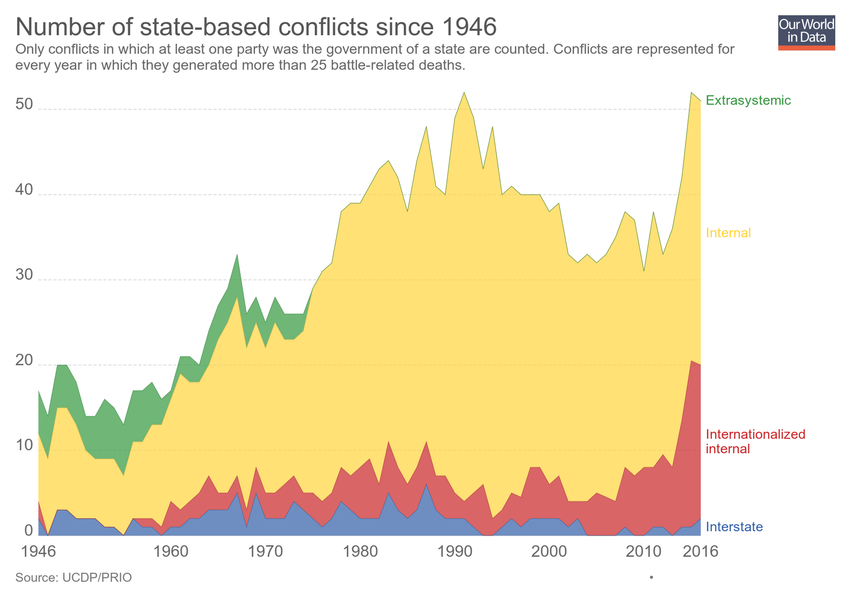
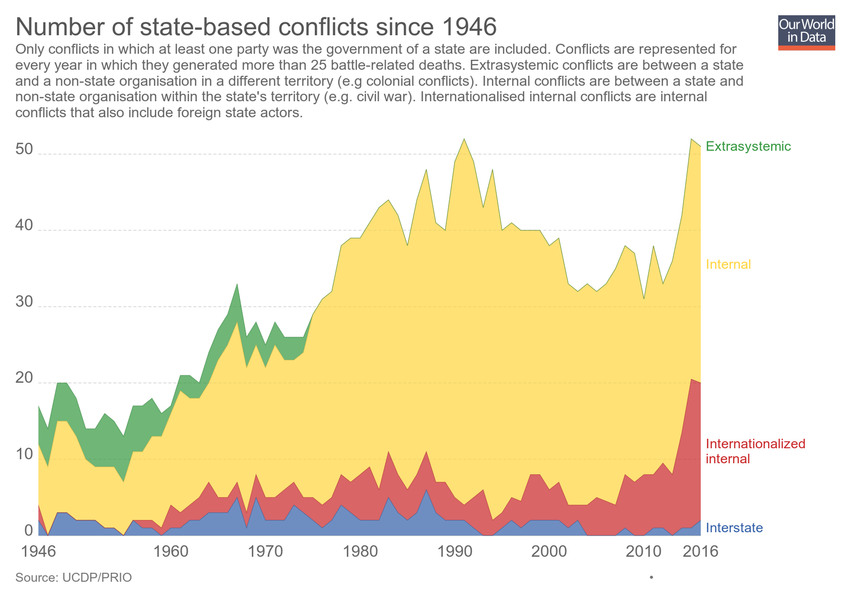
Updating chart number-of-state-based-conflicts-since-1946

diff --git a/grapher/number-of-state-based-conflicts-since-1946.html b/grapher/number-of-state-based-conflicts-since-1946.html
@@ -1,4 +1,4 @@
-<!doctype html><html><head><meta name="viewport" content="width=device-width, initial-scale=1" /><title>Number of state-based conflicts since 1946 - Our World in Data</title><meta name="description" content="Only conflicts in which at least one party was the government of a state are counted. Conflicts are represented for every year in which they generated more than 25 battle-related deaths." /><link rel="canonical" href="https://ourworldindata.org/grapher/number-of-state-based-conflicts-since-1946" /><meta property="fb:app_id" content="1149943818390250" /><meta property="og:url" content="https://ourworldindata.org/grapher/number-of-state-based-conflicts-since-1946" /><meta property="og:title" content="Number of state-based conflicts since 1946" /><meta property="og:description" content="Only conflicts in which at least one party was the government of a state are counted. Conflicts are represented for every year in which they generated more than 25 battle-related deaths." /><meta property="og:image" content="https://ourworldindata.org/grapher/exports/number-of-state-based-conflicts-since-1946.png?v=1" /><meta property="og:image:width" content="850" /><meta property="og:image:height" content="600" /><meta property="og:site_name" content="Our World in Data" /><meta name="twitter:card" content="summary_large_image" /><meta name="twitter:site" content="@OurWorldInData" /><meta name="twitter:creator" content="@OurWorldInData" /><meta name="twitter:title" content="Number of state-based conflicts since 1946" /><meta name="twitter:description" content="Only conflicts in which at least one party was the government of a state are counted. Conflicts are represented for every year in which they generated more than 25 battle-related deaths." /><meta name="twitter:image" content="https://ourworldindata.org/grapher/exports/number-of-state-based-conflicts-since-1946.png?v=1" /><style>
+<!doctype html><html><head><meta name="viewport" content="width=device-width, initial-scale=1" /><title>Number of state-based conflicts since 1946 - Our World in Data</title><meta name="description" content="Only conflicts in which at least one party was the government of a state are included. Conflicts are represented for every year in which they generated more than 25 battle-related deaths. Extrasystemic conflicts are between a state and a non-state organisation in a different territory (e.g colonial conflicts). Internal conflicts are between a state and non-state organisation within the state's territory (e.g. civil war). Internationalised internal conflicts are internal conflicts that also include foreign state actors." /><link rel="canonical" href="https://ourworldindata.org/grapher/number-of-state-based-conflicts-since-1946" /><meta property="fb:app_id" content="1149943818390250" /><meta property="og:url" content="https://ourworldindata.org/grapher/number-of-state-based-conflicts-since-1946" /><meta property="og:title" content="Number of state-based conflicts since 1946" /><meta property="og:description" content="Only conflicts in which at least one party was the government of a state are included. Conflicts are represented for every year in which they generated more than 25 battle-related deaths. Extrasystemic conflicts are between a state and a non-state organisation in a different territory (e.g colonial conflicts). Internal conflicts are between a state and non-state organisation within the state's territory (e.g. civil war). Internationalised internal conflicts are internal conflicts that also include foreign state actors." /><meta property="og:image" content="https://ourworldindata.org/grapher/exports/number-of-state-based-conflicts-since-1946.png?v=2" /><meta property="og:image:width" content="850" /><meta property="og:image:height" content="600" /><meta property="og:site_name" content="Our World in Data" /><meta name="twitter:card" content="summary_large_image" /><meta name="twitter:site" content="@OurWorldInData" /><meta name="twitter:creator" content="@OurWorldInData" /><meta name="twitter:title" content="Number of state-based conflicts since 1946" /><meta name="twitter:description" content="Only conflicts in which at least one party was the government of a state are included. Conflicts are represented for every year in which they generated more than 25 battle-related deaths. Extrasystemic conflicts are between a state and a non-state organisation in a different territory (e.g colonial conflicts). Internal conflicts are between a state and non-state organisation within the state's territory (e.g. civil war). Internationalised internal conflicts are internal conflicts that also include foreign state actors." /><meta name="twitter:image" content="https://ourworldindata.org/grapher/exports/number-of-state-based-conflicts-since-1946.png?v=2" /><style>
         html, body {
             height: 100%;
             margin: 0;
@@ -20,8 +20,8 @@
         }
     </style><noscript><style>
                     figure { display: none !important; }
-                </style></noscript><link rel="stylesheet" href="https://ourworldindata.org/grapher/assets/commons.bundle.62f8703dfc964fd3975c.css" /><link rel="preload" href="/grapher/data/variables/97370.json?v=1" as="fetch" crossorigin /></head><body class="singleChart"><figure data-grapher-src="/grapher/number-of-state-based-conflicts-since-1946"></figure><noscript id="fallback"><img src="/grapher/exports/number-of-state-based-conflicts-since-1946.svg" /><p>Interactive visualization requires JavaScript</p></noscript><script src="https://cdn.polyfill.io/v2/polyfill.min.js?features=es6,fetch"></script><script src="https://ourworldindata.org/grapher/assets/commons.bundle.62f8703dfc964fd3975c.js"></script><script src="https://ourworldindata.org/grapher/assets/charts.bundle.dcf65b68eddaba4c6a58.js"></script><script>
-        var jsonConfig = {"map":{"projection":"World","colorSchemeLabels":[],"colorSchemeValues":[],"colorSchemeMinValue":0,"customNumericColors":[],"customCategoryColors":{},"customCategoryLabels":{},"customHiddenCategories":{}},"tab":"chart","slug":"number-of-state-based-conflicts-since-1946","type":"StackedArea","title":"Number of state-based conflicts since 1946","xAxis":{"scaleType":"linear"},"yAxis":{"min":0,"scaleType":"linear"},"version":1,"subtitle":"Only conflicts in which at least one party was the government of a state are counted. Conflicts are represented for every year in which they generated more than 25 battle-related deaths.","hasMapTab":false,"stackMode":"absolute","dimensions":[{"display":{},"property":"y","variableId":97370}],"isAutoSlug":true,"hasChartTab":true,"isPublished":true,"selectedData":[{"index":0,"entityId":37484},{"index":0,"entityId":37486},{"index":0,"entityId":37487},{"index":0,"entityId":37485}],"addCountryMode":"disabled","id":2572};
+                </style></noscript><link rel="stylesheet" href="https://ourworldindata.org/grapher/assets/commons.bundle.62f8703dfc964fd3975c.css" /><link rel="preload" href="/grapher/data/variables/97370.json?v=2" as="fetch" crossorigin /></head><body class="singleChart"><figure data-grapher-src="/grapher/number-of-state-based-conflicts-since-1946"></figure><noscript id="fallback"><img src="/grapher/exports/number-of-state-based-conflicts-since-1946.svg" /><p>Interactive visualization requires JavaScript</p></noscript><script src="https://cdn.polyfill.io/v2/polyfill.min.js?features=es6,fetch"></script><script src="https://ourworldindata.org/grapher/assets/commons.bundle.62f8703dfc964fd3975c.js"></script><script src="https://ourworldindata.org/grapher/assets/charts.bundle.dcf65b68eddaba4c6a58.js"></script><script>
+        var jsonConfig = {"id":2572,"map":{"projection":"World","colorSchemeLabels":[],"colorSchemeValues":[],"colorSchemeMinValue":0,"customNumericColors":[],"customCategoryColors":{},"customCategoryLabels":{},"customHiddenCategories":{}},"tab":"chart","slug":"number-of-state-based-conflicts-since-1946","type":"StackedArea","title":"Number of state-based conflicts since 1946","xAxis":{"scaleType":"linear"},"yAxis":{"min":0,"scaleType":"linear"},"version":2,"subtitle":"Only conflicts in which at least one party was the government of a state are included. Conflicts are represented for every year in which they generated more than 25 battle-related deaths. Extrasystemic conflicts are between a state and a non-state organisation in a different territory (e.g colonial conflicts). Internal conflicts are between a state and non-state organisation within the state's territory (e.g. civil war). Internationalised internal conflicts are internal conflicts that also include foreign state actors.","hasMapTab":false,"stackMode":"absolute","dimensions":[{"display":{},"property":"y","variableId":97370}],"hasChartTab":true,"isPublished":true,"selectedData":[{"index":0,"entityId":37484},{"index":0,"entityId":37486},{"index":0,"entityId":37487},{"index":0,"entityId":37485}],"addCountryMode":"disabled"};
         var figure = document.getElementsByTagName("figure")[0];
         try {
             window.App = {};
